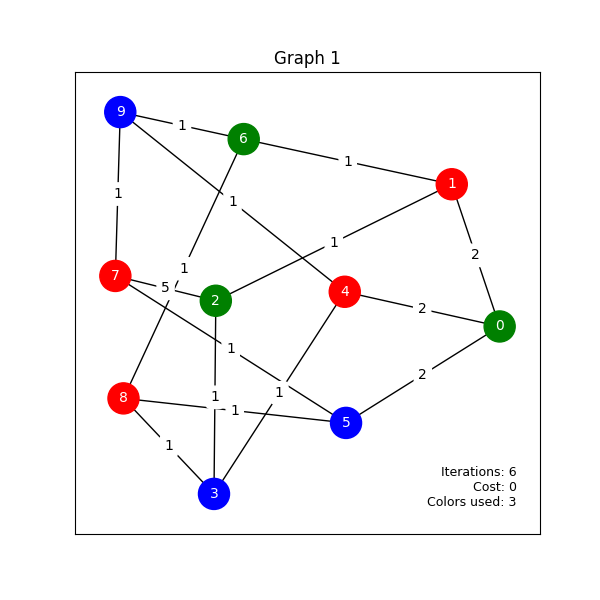
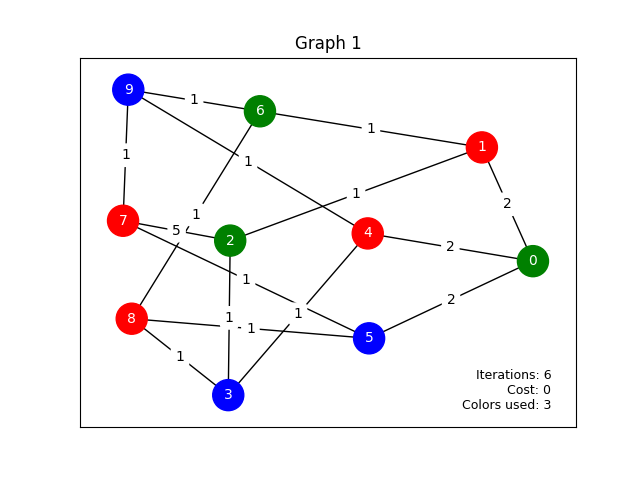
finished animation functions for greedy 1.0

diff --git a/src/graph.py b/src/graph.py
@@ -99,23 +99,56 @@ def greedy(graph, color_set_size, iterations):
         iterations_taken = i + 1
 
         # Plot graph to show recoloring 
-        # draw_graph(graph, graph_1_name, iterations_taken, pos)
+        draw_graph(graph, pos, graph_1_name, iterations_taken)
 
     return graph, cur_cost, itertions_taken
+
+
+def animate_greedy(graph, color_set_size, iterations):
+    cur_cost = calc_cost(graph)
+    color_set = list(range(color_set_size))
+    iterations_taken = 0
+
+    yield graph, cur_cost, iterations_taken # yield initial state
+
+    for i in range(iterations):
+        vertex_choice = None
+        color_choice = None
+        max_cost_reduction = 0
+
+        for vertex in graph.nodes:
+            ori_color = graph.nodes[vertex]['color']
+
+            for color in color_set:
+                delta_cost = calc_delta_cost(graph, vertex, ori_color, color)
+
+                if delta_cost > max_cost_reduction:
+                    max_cost_reduction = delta_cost
+                    vertex_choice = vertex
+                    color_choice = color
+
+        if max_cost_reduction == 0:
+            break
+        
+        # Recoloring 
+        graph.nodes[vertex_choice]['color'] = color_choice
+        cur_cost -= max_cost_reduction
+        iterations_taken = i + 1
+
+        yield graph, cur_cost, iterations_taken # yield updated state
+
 
 def reluctant(graph, color_set_size, iterations):
     pass
 
-def draw_graph(graph, graph_name, iteration_count, pos):
+def draw_graph(graph, pos, graph_name, iteration_count):
     '''
-    Draw the graph using Graphviz and save to an image file.
+    Draw the graph using Graphviz on the given axis
     '''
+
     vertex_colors = [color_map.get(str(graph.nodes[node].get('color', 0)), 'gray') for node in graph.nodes]
 
     edge_weights = nx.get_edge_attributes(graph, 'weight')
-
-    # Draw the graph
-    plt.figure(figsize=(6, 6))
 
     nx.draw_networkx(graph, pos, with_labels=True, node_color=vertex_colors, node_size=500, edge_color='black', font_color='white', font_size=10)
     nx.draw_networkx_edge_labels(graph, pos, edge_labels=edge_weights, rotate=False)
@@ -133,16 +166,50 @@ def draw_graph(graph, graph_name, iteration_count, pos):
     plt.savefig(graph_name)
     plt.show()
 
+
 # Animtation functions
+
+def animate(graph, color_set_size, iterations, pos, graph_name):
+    fig, ax = plt.subplots(figsize=(6, 6))
+
+    def update(frame_data):
+        graph, cur_cost, iteration_count = frame_data
+        ax.clear()
+
+        vertex_colors = [color_map.get(str(graph.nodes[node].get('color', 0)), 'gray') for node in graph.nodes]
+        edge_weights = nx.get_edge_attributes(graph, 'weight')
+
+        nx.draw_networkx(graph, pos, with_labels=True, node_color=vertex_colors, node_size=500, edge_color='black', font_color='white', font_size=10, ax=ax)
+        nx.draw_networkx_edge_labels(graph, pos, edge_labels=edge_weights, rotate=False, ax=ax)
+
+        ax.text(
+            0.95, 0.1, f'Iterations: {iteration_count}\nCost: {calc_cost(graph)}\nColors used: {len(set(nx.get_node_attributes(graph, "color").values()))}', 
+            horizontalalignment='right',
+            verticalalignment='center', 
+            transform=ax.transAxes,
+            fontsize=9, 
+            bbox=dict(facecolor='white', alpha=0.5, edgecolor='none')
+        )
+
+        ax.set_title(graph_name)
+
+    # Create an animation using the greedy function as a generator
+    ani = animation.FuncAnimation(
+        fig, update, frames=animate_greedy(graph, color_set_size, iterations), interval=1000, repeat=False
+    )
+    plt.show()
+
 
 if __name__ == '__main__':
     # Graph and color map paths
     graph_1_json_path = 'C:/Users/Yuxuan Xie/Desktop/Heuristics for combinatorial optimisation/Heuristics-for-combinatorial-optimisation/data/sample_graphs/graph1.json'
     color_map_path = 'C:/Users/Yuxuan Xie/Desktop/Heuristics for combinatorial optimisation/Heuristics-for-combinatorial-optimisation/data/color_map.json'
 
+    # Load graph and color map
     graph_1, graph_1_name = load_json_graph(graph_1_json_path)
     color_map = load_color_map(color_map_path)
 
+    # Initialise parameters
     # Define layout for graph visualiation, set vertex positions
     pos = nx.spring_layout(graph_1, seed=4) # force-directed algo
     # pos = nx.circular_layout(graph) # circle
@@ -152,7 +219,12 @@ if __name__ == '__main__':
     # pos = nx.spectral_layout(graph) # use eigenvectors of graph Laplacian matrix
     # pos = nx.draw_planar(graph) # planar graph
 
+    max_iterations = 10
+    color_set_size = 3
+
     # Apply optimising algorithm
-    # graph_1_greedy, cost, iterations_taken = greedy(graph_1, 3, 6)
+    graph_1_greedy, cost, iterations_taken = greedy(graph_1, color_set_size, max_iterations)
 
     # Animation
+    # animate(graph_1, color_set_size, max_iterations, pos, graph_1_name)
+

diff --git a/src/animations.py b/src/animations.py
@@ -1,0 +1,39 @@
+import json
+import numpy as np
+import networkx as nx
+import matplotlib.pyplot as plt
+import matplotlib.animation as animation
+
+from graph import load_json_graph, load_color_map, calc_cost, calc_delta_cost, greedy, draw_graph
+
+fig, ax = plt.subplots()
+t = np.linspace(0, 3, 40)
+g = -9.81
+v0 = 12
+z = g * t**2 / 2 + v0 * t
+
+v02 = 5
+z2 = g * t**2 / 2 + v02 * t
+
+scat = ax.scatter(t[0], z[0], c="b", s=5, label=f'v0 = {v0} m/s')
+line2 = ax.plot(t[0], z2[0], label=f'v0 = {v02} m/s')[0]
+
+ax.set(xlim=[0, 3], ylim=[-4, 10], xlabel='Time [s]', ylabel='Z [m]')
+ax.legend()
+
+
+def update(frame):
+    # for each frame, update the data stored on each artist.
+    x = t[:frame]
+    y = z[:frame]
+    # update the scatter plot:
+    data = np.stack([x, y]).T
+    scat.set_offsets(data)
+    # update the line plot:
+    line2.set_xdata(t[:frame])
+    line2.set_ydata(z2[:frame])
+    return (scat, line2)
+
+
+ani = animation.FuncAnimation(fig=fig, func=update, frames=40, interval=30)
+plt.show()
